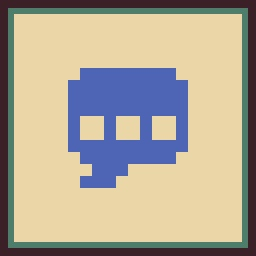
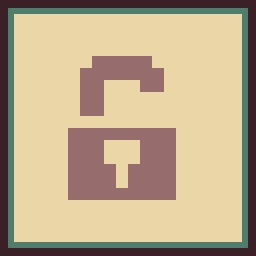
Use an open lock for captive rescue

Changed region(s): [[0.25, 0.2188, 0.75, 0.7812]]

diff --git a/apps/pixel-globe/src/achievements.js b/apps/pixel-globe/src/achievements.js
@@ -136,7 +136,7 @@ export const ACHIEVEMENT_CATALOG = Object.freeze([
   achievement(ACHIEVEMENT_IDS.ALOHA_SAILOR, "Aloha, Sailor",
     "Dock at the remote village of Hawaii.", "voyage", "achievement:hawaii", "ALOHA_SAILOR"),
   achievement(ACHIEVEMENT_IDS.NO_ONE_LEFT_IN_CHAINS, "No One Left in Chains",
-    "Bring a rescued pirate captive back to their home port.", "voyage", "action:hail",
+    "Bring a rescued pirate captive back to their home port.", "voyage", "status:achievement-unlocked",
     "NO_ONE_LEFT_IN_CHAINS", { hidden: true }),
   achievement(ACHIEVEMENT_IDS.NOT_FORGOTTEN, "Not Forgotten",
     "Bring a rescued castaway back to their home port.", "voyage", "action:anchor", "NOT_FORGOTTEN",

diff --git a/apps/pixel-globe/src/achievements.test.js b/apps/pixel-globe/src/achievements.test.js
@@ -134,6 +134,7 @@ test("exploration and settlement achievements use distinct semantic icons", () =
   assert.equal(icons[ACHIEVEMENT_IDS.EXPANSIONIST], "achievement:expansionist");
   assert.equal(icons[ACHIEVEMENT_IDS.COLONIST], "achievement:colonist");
   assert.equal(icons[ACHIEVEMENT_IDS.SHIP_COLLECTOR], "ship:fluyt");
+  assert.equal(icons[ACHIEVEMENT_IDS.NO_ONE_LEFT_IN_CHAINS], "status:achievement-unlocked");
   assert.equal(new Set([
     icons[ACHIEVEMENT_IDS.FOUNDER],
     icons[ACHIEVEMENT_IDS.EXPANSIONIST],
